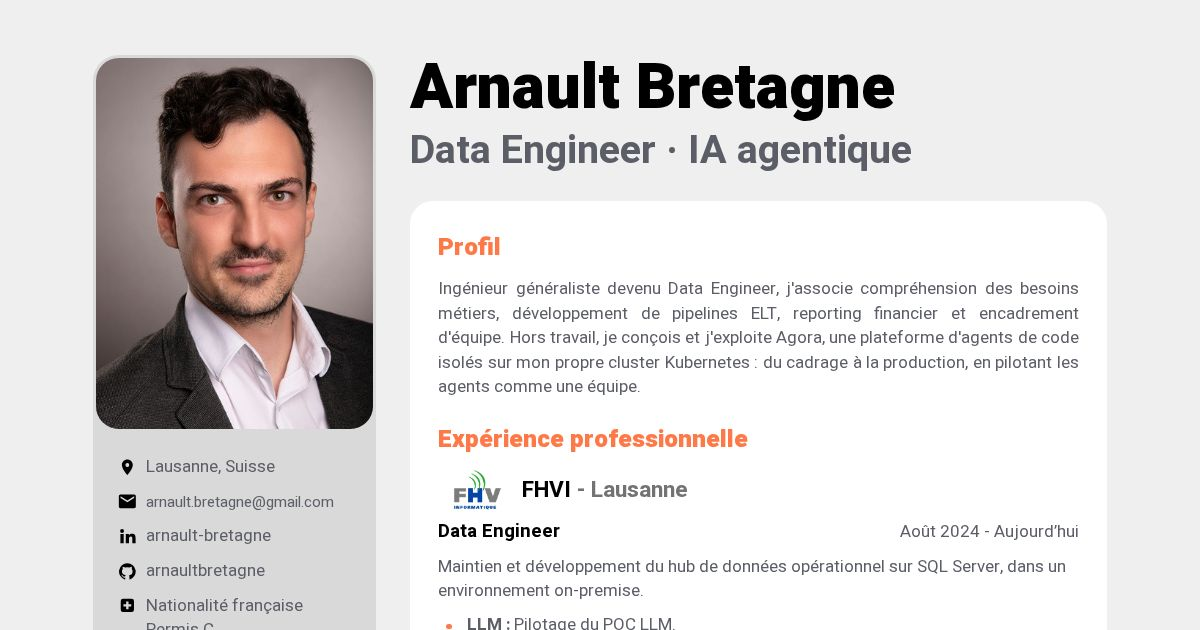
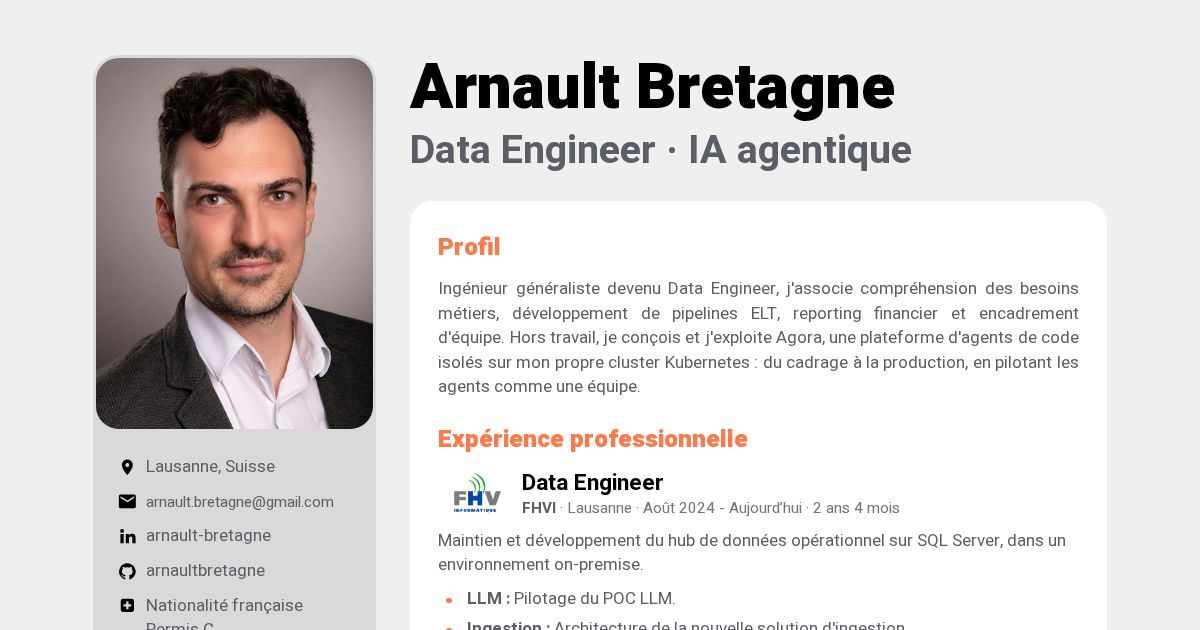
feat(cv): the compact entry layout, chosen; Capgemini ends in July 2024
Each entry's header is now the role (or the project) beside the logo, then
one grey line with the employer, the place, the dates and the length. The
other three layouts, the review bar and layout.js are gone.

Capgemini ran from November 2021 to July 2024; the PDF's 2025 was a typo.

Changed region(s): [[0.37, 0.754, 0.8942, 1.0]]

diff --git a/apps/cv/workload/site/fr.html b/apps/cv/workload/site/fr.html
@@ -21,11 +21,9 @@
 <link rel="icon" href="favicon.svg" type="image/svg+xml">
 <link rel="preload" href="heebo.woff2" as="font" type="font/woff2" crossorigin>
 <link rel="stylesheet" href="style.css">
-<script src="layout.js"></script>
 <script src="app.js" defer></script>
 </head>
 <body>
-<div class="review" hidden><span>Mise en page</span><div class="pill switch layouts" role="group" aria-label="Mise en page"><button type="button" data-layout="a">Actuel</button><button type="button" data-layout="b">Poste d'abord</button><button type="button" data-layout="c">Compact</button><button type="button" data-layout="d">Frise</button></div></div>
 <div class="page">
 
   <aside class="side">
@@ -127,11 +125,7 @@
       <h2>Expérience professionnelle</h2>
 
       <article class="entry">
-        <div class="when"><b>Août 2024</b><span>Aujourd’hui</span></div>
-        <div class="eh eh-a"><div class="org"><img class="logo" src="fhvi.png" width="175" height="136" alt=""><h3>FHVI <span class="place">- Lausanne</span></h3></div><div class="role"><h4>Data Engineer</h4><span class="dates">Août 2024 - Aujourd’hui</span></div></div>
-        <div class="eh eh-b"><img class="logo" src="fhvi.png" width="175" height="136" alt=""><h3>Data Engineer <span class="o">- FHVI</span></h3><span class="dates">Août 2024 - Aujourd’hui</span><span class="pl">Lausanne</span></div>
-        <div class="eh eh-c"><img class="logo" src="fhvi.png" width="175" height="136" alt=""><h3>Data Engineer</h3><p class="meta"><b>FHVI</b> · Lausanne · Août 2024 - Aujourd’hui<span class="dur" data-from="2024-08" data-to=""></span></p></div>
-        <div class="eh eh-d"><img class="logo" src="fhvi.png" width="175" height="136" alt=""><h3>Data Engineer <span class="o">- FHVI</span></h3><span class="pl">Lausanne</span></div>
+        <div class="eh"><img class="logo" src="fhvi.png" width="175" height="136" alt=""><h3>Data Engineer</h3><p class="meta"><b>FHVI</b> · Lausanne · Août 2024 - Aujourd’hui<span class="dur" data-from="2024-08" data-to=""></span></p></div>
         <p>Maintien et développement du hub de données opérationnel sur SQL Server, dans un environnement on-premise.</p>
         <ul class="points">
           <li><b>LLM :</b> Pilotage du POC LLM.</li>
@@ -141,11 +135,7 @@
         </ul>
       </article>
       <article class="entry">
-        <div class="when"><b>Nov. 2021</b><span>Juil. 2025</span></div>
-        <div class="eh eh-a"><div class="org"><img class="logo logo-capgemini" src="capgemini.png" width="126" height="119" alt=""><h3>Capgemini <span class="place">- Genève</span></h3></div><div class="role"><h4>Data Engineer</h4><span class="dates">Nov. 2021 - Juil. 2025</span></div></div>
-        <div class="eh eh-b"><img class="logo logo-capgemini" src="capgemini.png" width="126" height="119" alt=""><h3>Data Engineer <span class="o">- Capgemini</span></h3><span class="dates">Nov. 2021 - Juil. 2025</span><span class="pl">Genève</span></div>
-        <div class="eh eh-c"><img class="logo logo-capgemini" src="capgemini.png" width="126" height="119" alt=""><h3>Data Engineer</h3><p class="meta"><b>Capgemini</b> · Genève · Nov. 2021 - Juil. 2025<span class="dur" data-from="2021-11" data-to="2025-07"></span></p></div>
-        <div class="eh eh-d"><img class="logo logo-capgemini" src="capgemini.png" width="126" height="119" alt=""><h3>Data Engineer <span class="o">- Capgemini</span></h3><span class="pl">Genève</span></div>
+        <div class="eh"><img class="logo logo-capgemini" src="capgemini.png" width="126" height="119" alt=""><h3>Data Engineer</h3><p class="meta"><b>Capgemini</b> · Genève · Nov. 2021 - Juil. 2024<span class="dur" data-from="2021-11" data-to="2024-07"></span></p></div>
         <p class="sub">Consultant / Senior Consultant</p>
         <p>Reporting et planification financière SAP pour un leader européen des semi-conducteurs.</p>
         <ul class="points">
@@ -156,11 +146,7 @@
         </ul>
       </article>
       <article class="entry">
-        <div class="when"><b>Fév. 2016</b><span>Déc. 2020</span></div>
-        <div class="eh eh-a"><div class="org"><img class="logo" src="losinger.png" width="164" height="86" alt=""><h3>Losinger Marazzi <span class="place">- Lausanne</span></h3></div><div class="role"><h4>Acheteur</h4><span class="dates">Fév. 2016 - Déc. 2020</span></div></div>
-        <div class="eh eh-b"><img class="logo" src="losinger.png" width="164" height="86" alt=""><h3>Acheteur <span class="o">- Losinger Marazzi</span></h3><span class="dates">Fév. 2016 - Déc. 2020</span><span class="pl">Lausanne</span></div>
-        <div class="eh eh-c"><img class="logo" src="losinger.png" width="164" height="86" alt=""><h3>Acheteur</h3><p class="meta"><b>Losinger Marazzi</b> · Lausanne · Fév. 2016 - Déc. 2020<span class="dur" data-from="2016-02" data-to="2020-12"></span></p></div>
-        <div class="eh eh-d"><img class="logo" src="losinger.png" width="164" height="86" alt=""><h3>Acheteur <span class="o">- Losinger Marazzi</span></h3><span class="pl">Lausanne</span></div>
+        <div class="eh"><img class="logo" src="losinger.png" width="164" height="86" alt=""><h3>Acheteur</h3><p class="meta"><b>Losinger Marazzi</b> · Lausanne · Fév. 2016 - Déc. 2020<span class="dur" data-from="2016-02" data-to="2020-12"></span></p></div>
         <p>Achats CVSE, cuisines et revêtements de sol ; innovation.</p>
       </article>
     </section>
@@ -169,11 +155,7 @@
       <h2>Projets personnels</h2>
 
       <article class="entry">
-        <div class="when"><b>Juil. 2026</b><span>Aujourd’hui</span></div>
-        <div class="eh eh-a"><div class="org"><img class="logo logo-agora" src="agora.svg" width="72" height="72" alt=""><h3>Agora <span class="place">- Plateforme d'agents</span></h3><a class="repo" href="https://github.com/arnaultbretagne/agora"><svg viewBox="0 0 24 24" aria-hidden="true"><path d="M12 .3a12 12 0 0 0-3.8 23.4c.6.1.8-.3.8-.6v-2c-3.3.7-4-1.6-4-1.6-.6-1.4-1.4-1.8-1.4-1.8-1-.7.1-.7.1-.7 1.2.1 1.8 1.2 1.8 1.2 1 1.8 2.8 1.3 3.5 1 0-.8.4-1.3.7-1.6-2.7-.3-5.5-1.3-5.5-6 0-1.2.5-2.3 1.3-3.1-.2-.4-.6-1.6 0-3.2 0 0 1-.3 3.4 1.2a11.5 11.5 0 0 1 6 0c2.3-1.5 3.3-1.2 3.3-1.2.6 1.6.2 2.8.1 3.2.8.8 1.3 1.9 1.3 3.2 0 4.6-2.8 5.6-5.5 5.9.5.4.9 1 .9 2.2v3.3c0 .3.1.7.8.6A12 12 0 0 0 12 .3"/></svg> agora<span class="live" data-pushed="arnaultbretagne/agora"></span></a></div><div class="role"><h4>Conception, développement, exploitation</h4><span class="dates">Juil. 2026 - Aujourd’hui</span></div></div>
-        <div class="eh eh-b"><img class="logo logo-agora" src="agora.svg" width="72" height="72" alt=""><h3>Agora <span class="o">- Plateforme d'agents</span></h3><span class="dates">Juil. 2026 - Aujourd’hui</span><span class="pl">Conception, développement, exploitation</span><a class="repo" href="https://github.com/arnaultbretagne/agora"><svg viewBox="0 0 24 24" aria-hidden="true"><path d="M12 .3a12 12 0 0 0-3.8 23.4c.6.1.8-.3.8-.6v-2c-3.3.7-4-1.6-4-1.6-.6-1.4-1.4-1.8-1.4-1.8-1-.7.1-.7.1-.7 1.2.1 1.8 1.2 1.8 1.2 1 1.8 2.8 1.3 3.5 1 0-.8.4-1.3.7-1.6-2.7-.3-5.5-1.3-5.5-6 0-1.2.5-2.3 1.3-3.1-.2-.4-.6-1.6 0-3.2 0 0 1-.3 3.4 1.2a11.5 11.5 0 0 1 6 0c2.3-1.5 3.3-1.2 3.3-1.2.6 1.6.2 2.8.1 3.2.8.8 1.3 1.9 1.3 3.2 0 4.6-2.8 5.6-5.5 5.9.5.4.9 1 .9 2.2v3.3c0 .3.1.7.8.6A12 12 0 0 0 12 .3"/></svg> agora<span class="live" data-pushed="arnaultbretagne/agora"></span></a></div>
-        <div class="eh eh-c"><img class="logo logo-agora" src="agora.svg" width="72" height="72" alt=""><h3>Agora <span class="o">- Plateforme d'agents</span></h3><a class="repo" href="https://github.com/arnaultbretagne/agora"><svg viewBox="0 0 24 24" aria-hidden="true"><path d="M12 .3a12 12 0 0 0-3.8 23.4c.6.1.8-.3.8-.6v-2c-3.3.7-4-1.6-4-1.6-.6-1.4-1.4-1.8-1.4-1.8-1-.7.1-.7.1-.7 1.2.1 1.8 1.2 1.8 1.2 1 1.8 2.8 1.3 3.5 1 0-.8.4-1.3.7-1.6-2.7-.3-5.5-1.3-5.5-6 0-1.2.5-2.3 1.3-3.1-.2-.4-.6-1.6 0-3.2 0 0 1-.3 3.4 1.2a11.5 11.5 0 0 1 6 0c2.3-1.5 3.3-1.2 3.3-1.2.6 1.6.2 2.8.1 3.2.8.8 1.3 1.9 1.3 3.2 0 4.6-2.8 5.6-5.5 5.9.5.4.9 1 .9 2.2v3.3c0 .3.1.7.8.6A12 12 0 0 0 12 .3"/></svg> agora<span class="live" data-pushed="arnaultbretagne/agora"></span></a><p class="meta">Conception, développement, exploitation · Juil. 2026 - Aujourd’hui<span class="dur" data-from="2026-07" data-to=""></span></p></div>
-        <div class="eh eh-d"><img class="logo logo-agora" src="agora.svg" width="72" height="72" alt=""><h3>Agora <span class="o">- Plateforme d'agents</span></h3><span class="pl">Conception, développement, exploitation</span><a class="repo" href="https://github.com/arnaultbretagne/agora"><svg viewBox="0 0 24 24" aria-hidden="true"><path d="M12 .3a12 12 0 0 0-3.8 23.4c.6.1.8-.3.8-.6v-2c-3.3.7-4-1.6-4-1.6-.6-1.4-1.4-1.8-1.4-1.8-1-.7.1-.7.1-.7 1.2.1 1.8 1.2 1.8 1.2 1 1.8 2.8 1.3 3.5 1 0-.8.4-1.3.7-1.6-2.7-.3-5.5-1.3-5.5-6 0-1.2.5-2.3 1.3-3.1-.2-.4-.6-1.6 0-3.2 0 0 1-.3 3.4 1.2a11.5 11.5 0 0 1 6 0c2.3-1.5 3.3-1.2 3.3-1.2.6 1.6.2 2.8.1 3.2.8.8 1.3 1.9 1.3 3.2 0 4.6-2.8 5.6-5.5 5.9.5.4.9 1 .9 2.2v3.3c0 .3.1.7.8.6A12 12 0 0 0 12 .3"/></svg> agora<span class="live" data-pushed="arnaultbretagne/agora"></span></a></div>
+        <div class="eh"><img class="logo logo-agora" src="agora.svg" width="72" height="72" alt=""><h3>Agora <span class="o">- Plateforme d'agents</span></h3><a class="repo" href="https://github.com/arnaultbretagne/agora"><svg viewBox="0 0 24 24" aria-hidden="true"><path d="M12 .3a12 12 0 0 0-3.8 23.4c.6.1.8-.3.8-.6v-2c-3.3.7-4-1.6-4-1.6-.6-1.4-1.4-1.8-1.4-1.8-1-.7.1-.7.1-.7 1.2.1 1.8 1.2 1.8 1.2 1 1.8 2.8 1.3 3.5 1 0-.8.4-1.3.7-1.6-2.7-.3-5.5-1.3-5.5-6 0-1.2.5-2.3 1.3-3.1-.2-.4-.6-1.6 0-3.2 0 0 1-.3 3.4 1.2a11.5 11.5 0 0 1 6 0c2.3-1.5 3.3-1.2 3.3-1.2.6 1.6.2 2.8.1 3.2.8.8 1.3 1.9 1.3 3.2 0 4.6-2.8 5.6-5.5 5.9.5.4.9 1 .9 2.2v3.3c0 .3.1.7.8.6A12 12 0 0 0 12 .3"/></svg> agora<span class="live" data-pushed="arnaultbretagne/agora"></span></a><p class="meta">Conception, développement, exploitation · Juil. 2026 - Aujourd’hui<span class="dur" data-from="2026-07" data-to=""></span></p></div>
         <p>Une interface web pour travailler avec des agents de code qui tournent isolés, retrouver tout leur travail après une interruption et les faire travailler en équipe.</p>
         <ul class="points">
           <li><b><a class="proof" href="https://github.com/arnaultbretagne/agora/blob/main/docs/architecture/executions.md">Exécutions</a> :</b> Claude Code, Codex et opencode via ACP, chaque agent dans sa microVM Kata, pools chauds.</li>
@@ -185,11 +167,7 @@
         </ul>
       </article>
       <article class="entry">
-        <div class="when"><b>Avr. 2026</b><span>Aujourd’hui</span></div>
-        <div class="eh eh-a"><div class="org"><img class="logo logo-kubernetes" src="kubernetes.svg" width="777" height="754" alt=""><h3>bretagne.dev <span class="place">- Kubernetes</span></h3><a class="repo" href="https://github.com/arnaultbretagne/infra-k8s"><svg viewBox="0 0 24 24" aria-hidden="true"><path d="M12 .3a12 12 0 0 0-3.8 23.4c.6.1.8-.3.8-.6v-2c-3.3.7-4-1.6-4-1.6-.6-1.4-1.4-1.8-1.4-1.8-1-.7.1-.7.1-.7 1.2.1 1.8 1.2 1.8 1.2 1 1.8 2.8 1.3 3.5 1 0-.8.4-1.3.7-1.6-2.7-.3-5.5-1.3-5.5-6 0-1.2.5-2.3 1.3-3.1-.2-.4-.6-1.6 0-3.2 0 0 1-.3 3.4 1.2a11.5 11.5 0 0 1 6 0c2.3-1.5 3.3-1.2 3.3-1.2.6 1.6.2 2.8.1 3.2.8.8 1.3 1.9 1.3 3.2 0 4.6-2.8 5.6-5.5 5.9.5.4.9 1 .9 2.2v3.3c0 .3.1.7.8.6A12 12 0 0 0 12 .3"/></svg> infra-k8s<span class="live" data-pushed="arnaultbretagne/infra-k8s"></span></a></div><div class="role"><h4>Plateforme GitOps auto-hébergée</h4><span class="dates">Avr. 2026 - Aujourd’hui</span></div></div>
-        <div class="eh eh-b"><img class="logo logo-kubernetes" src="kubernetes.svg" width="777" height="754" alt=""><h3>bretagne.dev <span class="o">- Kubernetes</span></h3><span class="dates">Avr. 2026 - Aujourd’hui</span><span class="pl">Plateforme GitOps auto-hébergée</span><a class="repo" href="https://github.com/arnaultbretagne/infra-k8s"><svg viewBox="0 0 24 24" aria-hidden="true"><path d="M12 .3a12 12 0 0 0-3.8 23.4c.6.1.8-.3.8-.6v-2c-3.3.7-4-1.6-4-1.6-.6-1.4-1.4-1.8-1.4-1.8-1-.7.1-.7.1-.7 1.2.1 1.8 1.2 1.8 1.2 1 1.8 2.8 1.3 3.5 1 0-.8.4-1.3.7-1.6-2.7-.3-5.5-1.3-5.5-6 0-1.2.5-2.3 1.3-3.1-.2-.4-.6-1.6 0-3.2 0 0 1-.3 3.4 1.2a11.5 11.5 0 0 1 6 0c2.3-1.5 3.3-1.2 3.3-1.2.6 1.6.2 2.8.1 3.2.8.8 1.3 1.9 1.3 3.2 0 4.6-2.8 5.6-5.5 5.9.5.4.9 1 .9 2.2v3.3c0 .3.1.7.8.6A12 12 0 0 0 12 .3"/></svg> infra-k8s<span class="live" data-pushed="arnaultbretagne/infra-k8s"></span></a></div>
-        <div class="eh eh-c"><img class="logo logo-kubernetes" src="kubernetes.svg" width="777" height="754" alt=""><h3>bretagne.dev <span class="o">- Kubernetes</span></h3><a class="repo" href="https://github.com/arnaultbretagne/infra-k8s"><svg viewBox="0 0 24 24" aria-hidden="true"><path d="M12 .3a12 12 0 0 0-3.8 23.4c.6.1.8-.3.8-.6v-2c-3.3.7-4-1.6-4-1.6-.6-1.4-1.4-1.8-1.4-1.8-1-.7.1-.7.1-.7 1.2.1 1.8 1.2 1.8 1.2 1 1.8 2.8 1.3 3.5 1 0-.8.4-1.3.7-1.6-2.7-.3-5.5-1.3-5.5-6 0-1.2.5-2.3 1.3-3.1-.2-.4-.6-1.6 0-3.2 0 0 1-.3 3.4 1.2a11.5 11.5 0 0 1 6 0c2.3-1.5 3.3-1.2 3.3-1.2.6 1.6.2 2.8.1 3.2.8.8 1.3 1.9 1.3 3.2 0 4.6-2.8 5.6-5.5 5.9.5.4.9 1 .9 2.2v3.3c0 .3.1.7.8.6A12 12 0 0 0 12 .3"/></svg> infra-k8s<span class="live" data-pushed="arnaultbretagne/infra-k8s"></span></a><p class="meta">Plateforme GitOps auto-hébergée · Avr. 2026 - Aujourd’hui<span class="dur" data-from="2026-04" data-to=""></span></p></div>
-        <div class="eh eh-d"><img class="logo logo-kubernetes" src="kubernetes.svg" width="777" height="754" alt=""><h3>bretagne.dev <span class="o">- Kubernetes</span></h3><span class="pl">Plateforme GitOps auto-hébergée</span><a class="repo" href="https://github.com/arnaultbretagne/infra-k8s"><svg viewBox="0 0 24 24" aria-hidden="true"><path d="M12 .3a12 12 0 0 0-3.8 23.4c.6.1.8-.3.8-.6v-2c-3.3.7-4-1.6-4-1.6-.6-1.4-1.4-1.8-1.4-1.8-1-.7.1-.7.1-.7 1.2.1 1.8 1.2 1.8 1.2 1 1.8 2.8 1.3 3.5 1 0-.8.4-1.3.7-1.6-2.7-.3-5.5-1.3-5.5-6 0-1.2.5-2.3 1.3-3.1-.2-.4-.6-1.6 0-3.2 0 0 1-.3 3.4 1.2a11.5 11.5 0 0 1 6 0c2.3-1.5 3.3-1.2 3.3-1.2.6 1.6.2 2.8.1 3.2.8.8 1.3 1.9 1.3 3.2 0 4.6-2.8 5.6-5.5 5.9.5.4.9 1 .9 2.2v3.3c0 .3.1.7.8.6A12 12 0 0 0 12 .3"/></svg> infra-k8s<span class="live" data-pushed="arnaultbretagne/infra-k8s"></span></a></div>
+        <div class="eh"><img class="logo logo-kubernetes" src="kubernetes.svg" width="777" height="754" alt=""><h3>bretagne.dev <span class="o">- Kubernetes</span></h3><a class="repo" href="https://github.com/arnaultbretagne/infra-k8s"><svg viewBox="0 0 24 24" aria-hidden="true"><path d="M12 .3a12 12 0 0 0-3.8 23.4c.6.1.8-.3.8-.6v-2c-3.3.7-4-1.6-4-1.6-.6-1.4-1.4-1.8-1.4-1.8-1-.7.1-.7.1-.7 1.2.1 1.8 1.2 1.8 1.2 1 1.8 2.8 1.3 3.5 1 0-.8.4-1.3.7-1.6-2.7-.3-5.5-1.3-5.5-6 0-1.2.5-2.3 1.3-3.1-.2-.4-.6-1.6 0-3.2 0 0 1-.3 3.4 1.2a11.5 11.5 0 0 1 6 0c2.3-1.5 3.3-1.2 3.3-1.2.6 1.6.2 2.8.1 3.2.8.8 1.3 1.9 1.3 3.2 0 4.6-2.8 5.6-5.5 5.9.5.4.9 1 .9 2.2v3.3c0 .3.1.7.8.6A12 12 0 0 0 12 .3"/></svg> infra-k8s<span class="live" data-pushed="arnaultbretagne/infra-k8s"></span></a><p class="meta">Plateforme GitOps auto-hébergée · Avr. 2026 - Aujourd’hui<span class="dur" data-from="2026-04" data-to=""></span></p></div>
         <p>Le cluster qui fait tourner Agora et mes services sur un mini-PC, à la maison : chaque changement passe par une PR, Flux l'applique.</p>
         <ul class="points">
           <li><b><a class="proof" href="https://github.com/arnaultbretagne/infra-k8s/blob/main/docs/adr/0026-gitops-root-of-trust.md">GitOps</a> :</b> Flux, SOPS, Renovate ; branche main protégée : les agents proposent, je merge.</li>

diff --git a/apps/cv/workload/site/index.html b/apps/cv/workload/site/index.html
@@ -21,11 +21,9 @@
 <link rel="icon" href="favicon.svg" type="image/svg+xml">
 <link rel="preload" href="heebo.woff2" as="font" type="font/woff2" crossorigin>
 <link rel="stylesheet" href="style.css">
-<script src="layout.js"></script>
 <script src="app.js" defer></script>
 </head>
 <body>
-<div class="review" hidden><span>Layout</span><div class="pill switch layouts" role="group" aria-label="Layout"><button type="button" data-layout="a">Current</button><button type="button" data-layout="b">Role first</button><button type="button" data-layout="c">Compact</button><button type="button" data-layout="d">Timeline</button></div></div>
 <div class="page">
 
   <aside class="side">
@@ -127,11 +125,7 @@
       <h2>Professional experience</h2>
 
       <article class="entry">
-        <div class="when"><b>Aug. 2024</b><span>Present</span></div>
-        <div class="eh eh-a"><div class="org"><img class="logo" src="fhvi.png" width="175" height="136" alt=""><h3>FHVI <span class="place">- Lausanne</span></h3></div><div class="role"><h4>Data Engineer</h4><span class="dates">Aug. 2024 - Present</span></div></div>
-        <div class="eh eh-b"><img class="logo" src="fhvi.png" width="175" height="136" alt=""><h3>Data Engineer <span class="o">- FHVI</span></h3><span class="dates">Aug. 2024 - Present</span><span class="pl">Lausanne</span></div>
-        <div class="eh eh-c"><img class="logo" src="fhvi.png" width="175" height="136" alt=""><h3>Data Engineer</h3><p class="meta"><b>FHVI</b> · Lausanne · Aug. 2024 - Present<span class="dur" data-from="2024-08" data-to=""></span></p></div>
-        <div class="eh eh-d"><img class="logo" src="fhvi.png" width="175" height="136" alt=""><h3>Data Engineer <span class="o">- FHVI</span></h3><span class="pl">Lausanne</span></div>
+        <div class="eh"><img class="logo" src="fhvi.png" width="175" height="136" alt=""><h3>Data Engineer</h3><p class="meta"><b>FHVI</b> · Lausanne · Aug. 2024 - Present<span class="dur" data-from="2024-08" data-to=""></span></p></div>
         <p>Maintenance and development of the operational data hub on SQL Server, in an on-premise environment.</p>
         <ul class="points">
           <li><b>LLM:</b> Led the LLM proof of concept.</li>
@@ -141,11 +135,7 @@
         </ul>
       </article>
       <article class="entry">
-        <div class="when"><b>Nov. 2021</b><span>Jul. 2025</span></div>
-        <div class="eh eh-a"><div class="org"><img class="logo logo-capgemini" src="capgemini.png" width="126" height="119" alt=""><h3>Capgemini <span class="place">- Geneva</span></h3></div><div class="role"><h4>Data Engineer</h4><span class="dates">Nov. 2021 - Jul. 2025</span></div></div>
-        <div class="eh eh-b"><img class="logo logo-capgemini" src="capgemini.png" width="126" height="119" alt=""><h3>Data Engineer <span class="o">- Capgemini</span></h3><span class="dates">Nov. 2021 - Jul. 2025</span><span class="pl">Geneva</span></div>
-        <div class="eh eh-c"><img class="logo logo-capgemini" src="capgemini.png" width="126" height="119" alt=""><h3>Data Engineer</h3><p class="meta"><b>Capgemini</b> · Geneva · Nov. 2021 - Jul. 2025<span class="dur" data-from="2021-11" data-to="2025-07"></span></p></div>
-        <div class="eh eh-d"><img class="logo logo-capgemini" src="capgemini.png" width="126" height="119" alt=""><h3>Data Engineer <span class="o">- Capgemini</span></h3><span class="pl">Geneva</span></div>
+        <div class="eh"><img class="logo logo-capgemini" src="capgemini.png" width="126" height="119" alt=""><h3>Data Engineer</h3><p class="meta"><b>Capgemini</b> · Geneva · Nov. 2021 - Jul. 2024<span class="dur" data-from="2021-11" data-to="2024-07"></span></p></div>
         <p class="sub">Consultant / Senior Consultant</p>
         <p>SAP financial reporting and planning for a European semiconductor leader.</p>
         <ul class="points">
@@ -156,11 +146,7 @@
         </ul>
       </article>
       <article class="entry">
-        <div class="when"><b>Feb. 2016</b><span>Dec. 2020</span></div>
-        <div class="eh eh-a"><div class="org"><img class="logo" src="losinger.png" width="164" height="86" alt=""><h3>Losinger Marazzi <span class="place">- Lausanne</span></h3></div><div class="role"><h4>Buyer</h4><span class="dates">Feb. 2016 - Dec. 2020</span></div></div>
-        <div class="eh eh-b"><img class="logo" src="losinger.png" width="164" height="86" alt=""><h3>Buyer <span class="o">- Losinger Marazzi</span></h3><span class="dates">Feb. 2016 - Dec. 2020</span><span class="pl">Lausanne</span></div>
-        <div class="eh eh-c"><img class="logo" src="losinger.png" width="164" height="86" alt=""><h3>Buyer</h3><p class="meta"><b>Losinger Marazzi</b> · Lausanne · Feb. 2016 - Dec. 2020<span class="dur" data-from="2016-02" data-to="2020-12"></span></p></div>
-        <div class="eh eh-d"><img class="logo" src="losinger.png" width="164" height="86" alt=""><h3>Buyer <span class="o">- Losinger Marazzi</span></h3><span class="pl">Lausanne</span></div>
+        <div class="eh"><img class="logo" src="losinger.png" width="164" height="86" alt=""><h3>Buyer</h3><p class="meta"><b>Losinger Marazzi</b> · Lausanne · Feb. 2016 - Dec. 2020<span class="dur" data-from="2016-02" data-to="2020-12"></span></p></div>
         <p>Procurement of building services (HVAC, plumbing, electrical), kitchens and floor coverings; innovation.</p>
       </article>
     </section>
@@ -169,11 +155,7 @@
       <h2>Personal projects</h2>
 
       <article class="entry">
-        <div class="when"><b>Jul. 2026</b><span>Present</span></div>
-        <div class="eh eh-a"><div class="org"><img class="logo logo-agora" src="agora.svg" width="72" height="72" alt=""><h3>Agora <span class="place">- Agent platform</span></h3><a class="repo" href="https://github.com/arnaultbretagne/agora"><svg viewBox="0 0 24 24" aria-hidden="true"><path d="M12 .3a12 12 0 0 0-3.8 23.4c.6.1.8-.3.8-.6v-2c-3.3.7-4-1.6-4-1.6-.6-1.4-1.4-1.8-1.4-1.8-1-.7.1-.7.1-.7 1.2.1 1.8 1.2 1.8 1.2 1 1.8 2.8 1.3 3.5 1 0-.8.4-1.3.7-1.6-2.7-.3-5.5-1.3-5.5-6 0-1.2.5-2.3 1.3-3.1-.2-.4-.6-1.6 0-3.2 0 0 1-.3 3.4 1.2a11.5 11.5 0 0 1 6 0c2.3-1.5 3.3-1.2 3.3-1.2.6 1.6.2 2.8.1 3.2.8.8 1.3 1.9 1.3 3.2 0 4.6-2.8 5.6-5.5 5.9.5.4.9 1 .9 2.2v3.3c0 .3.1.7.8.6A12 12 0 0 0 12 .3"/></svg> agora<span class="live" data-pushed="arnaultbretagne/agora"></span></a></div><div class="role"><h4>Design, development, operations</h4><span class="dates">Jul. 2026 - Present</span></div></div>
-        <div class="eh eh-b"><img class="logo logo-agora" src="agora.svg" width="72" height="72" alt=""><h3>Agora <span class="o">- Agent platform</span></h3><span class="dates">Jul. 2026 - Present</span><span class="pl">Design, development, operations</span><a class="repo" href="https://github.com/arnaultbretagne/agora"><svg viewBox="0 0 24 24" aria-hidden="true"><path d="M12 .3a12 12 0 0 0-3.8 23.4c.6.1.8-.3.8-.6v-2c-3.3.7-4-1.6-4-1.6-.6-1.4-1.4-1.8-1.4-1.8-1-.7.1-.7.1-.7 1.2.1 1.8 1.2 1.8 1.2 1 1.8 2.8 1.3 3.5 1 0-.8.4-1.3.7-1.6-2.7-.3-5.5-1.3-5.5-6 0-1.2.5-2.3 1.3-3.1-.2-.4-.6-1.6 0-3.2 0 0 1-.3 3.4 1.2a11.5 11.5 0 0 1 6 0c2.3-1.5 3.3-1.2 3.3-1.2.6 1.6.2 2.8.1 3.2.8.8 1.3 1.9 1.3 3.2 0 4.6-2.8 5.6-5.5 5.9.5.4.9 1 .9 2.2v3.3c0 .3.1.7.8.6A12 12 0 0 0 12 .3"/></svg> agora<span class="live" data-pushed="arnaultbretagne/agora"></span></a></div>
-        <div class="eh eh-c"><img class="logo logo-agora" src="agora.svg" width="72" height="72" alt=""><h3>Agora <span class="o">- Agent platform</span></h3><a class="repo" href="https://github.com/arnaultbretagne/agora"><svg viewBox="0 0 24 24" aria-hidden="true"><path d="M12 .3a12 12 0 0 0-3.8 23.4c.6.1.8-.3.8-.6v-2c-3.3.7-4-1.6-4-1.6-.6-1.4-1.4-1.8-1.4-1.8-1-.7.1-.7.1-.7 1.2.1 1.8 1.2 1.8 1.2 1 1.8 2.8 1.3 3.5 1 0-.8.4-1.3.7-1.6-2.7-.3-5.5-1.3-5.5-6 0-1.2.5-2.3 1.3-3.1-.2-.4-.6-1.6 0-3.2 0 0 1-.3 3.4 1.2a11.5 11.5 0 0 1 6 0c2.3-1.5 3.3-1.2 3.3-1.2.6 1.6.2 2.8.1 3.2.8.8 1.3 1.9 1.3 3.2 0 4.6-2.8 5.6-5.5 5.9.5.4.9 1 .9 2.2v3.3c0 .3.1.7.8.6A12 12 0 0 0 12 .3"/></svg> agora<span class="live" data-pushed="arnaultbretagne/agora"></span></a><p class="meta">Design, development, operations · Jul. 2026 - Present<span class="dur" data-from="2026-07" data-to=""></span></p></div>
-        <div class="eh eh-d"><img class="logo logo-agora" src="agora.svg" width="72" height="72" alt=""><h3>Agora <span class="o">- Agent platform</span></h3><span class="pl">Design, development, operations</span><a class="repo" href="https://github.com/arnaultbretagne/agora"><svg viewBox="0 0 24 24" aria-hidden="true"><path d="M12 .3a12 12 0 0 0-3.8 23.4c.6.1.8-.3.8-.6v-2c-3.3.7-4-1.6-4-1.6-.6-1.4-1.4-1.8-1.4-1.8-1-.7.1-.7.1-.7 1.2.1 1.8 1.2 1.8 1.2 1 1.8 2.8 1.3 3.5 1 0-.8.4-1.3.7-1.6-2.7-.3-5.5-1.3-5.5-6 0-1.2.5-2.3 1.3-3.1-.2-.4-.6-1.6 0-3.2 0 0 1-.3 3.4 1.2a11.5 11.5 0 0 1 6 0c2.3-1.5 3.3-1.2 3.3-1.2.6 1.6.2 2.8.1 3.2.8.8 1.3 1.9 1.3 3.2 0 4.6-2.8 5.6-5.5 5.9.5.4.9 1 .9 2.2v3.3c0 .3.1.7.8.6A12 12 0 0 0 12 .3"/></svg> agora<span class="live" data-pushed="arnaultbretagne/agora"></span></a></div>
+        <div class="eh"><img class="logo logo-agora" src="agora.svg" width="72" height="72" alt=""><h3>Agora <span class="o">- Agent platform</span></h3><a class="repo" href="https://github.com/arnaultbretagne/agora"><svg viewBox="0 0 24 24" aria-hidden="true"><path d="M12 .3a12 12 0 0 0-3.8 23.4c.6.1.8-.3.8-.6v-2c-3.3.7-4-1.6-4-1.6-.6-1.4-1.4-1.8-1.4-1.8-1-.7.1-.7.1-.7 1.2.1 1.8 1.2 1.8 1.2 1 1.8 2.8 1.3 3.5 1 0-.8.4-1.3.7-1.6-2.7-.3-5.5-1.3-5.5-6 0-1.2.5-2.3 1.3-3.1-.2-.4-.6-1.6 0-3.2 0 0 1-.3 3.4 1.2a11.5 11.5 0 0 1 6 0c2.3-1.5 3.3-1.2 3.3-1.2.6 1.6.2 2.8.1 3.2.8.8 1.3 1.9 1.3 3.2 0 4.6-2.8 5.6-5.5 5.9.5.4.9 1 .9 2.2v3.3c0 .3.1.7.8.6A12 12 0 0 0 12 .3"/></svg> agora<span class="live" data-pushed="arnaultbretagne/agora"></span></a><p class="meta">Design, development, operations · Jul. 2026 - Present<span class="dur" data-from="2026-07" data-to=""></span></p></div>
         <p>A web interface to work with coding agents that run in isolation, find all their work again after an interruption, and have them work as a team.</p>
         <ul class="points">
           <li><b><a class="proof" href="https://github.com/arnaultbretagne/agora/blob/main/docs/architecture/executions.md">Executions</a>:</b> Claude Code, Codex and opencode over ACP, each agent in its own Kata microVM, warm pools.</li>
@@ -185,11 +167,7 @@
         </ul>
       </article>
       <article class="entry">
-        <div class="when"><b>Apr. 2026</b><span>Present</span></div>
-        <div class="eh eh-a"><div class="org"><img class="logo logo-kubernetes" src="kubernetes.svg" width="777" height="754" alt=""><h3>bretagne.dev <span class="place">- Kubernetes</span></h3><a class="repo" href="https://github.com/arnaultbretagne/infra-k8s"><svg viewBox="0 0 24 24" aria-hidden="true"><path d="M12 .3a12 12 0 0 0-3.8 23.4c.6.1.8-.3.8-.6v-2c-3.3.7-4-1.6-4-1.6-.6-1.4-1.4-1.8-1.4-1.8-1-.7.1-.7.1-.7 1.2.1 1.8 1.2 1.8 1.2 1 1.8 2.8 1.3 3.5 1 0-.8.4-1.3.7-1.6-2.7-.3-5.5-1.3-5.5-6 0-1.2.5-2.3 1.3-3.1-.2-.4-.6-1.6 0-3.2 0 0 1-.3 3.4 1.2a11.5 11.5 0 0 1 6 0c2.3-1.5 3.3-1.2 3.3-1.2.6 1.6.2 2.8.1 3.2.8.8 1.3 1.9 1.3 3.2 0 4.6-2.8 5.6-5.5 5.9.5.4.9 1 .9 2.2v3.3c0 .3.1.7.8.6A12 12 0 0 0 12 .3"/></svg> infra-k8s<span class="live" data-pushed="arnaultbretagne/infra-k8s"></span></a></div><div class="role"><h4>Self-hosted GitOps platform</h4><span class="dates">Apr. 2026 - Present</span></div></div>
-        <div class="eh eh-b"><img class="logo logo-kubernetes" src="kubernetes.svg" width="777" height="754" alt=""><h3>bretagne.dev <span class="o">- Kubernetes</span></h3><span class="dates">Apr. 2026 - Present</span><span class="pl">Self-hosted GitOps platform</span><a class="repo" href="https://github.com/arnaultbretagne/infra-k8s"><svg viewBox="0 0 24 24" aria-hidden="true"><path d="M12 .3a12 12 0 0 0-3.8 23.4c.6.1.8-.3.8-.6v-2c-3.3.7-4-1.6-4-1.6-.6-1.4-1.4-1.8-1.4-1.8-1-.7.1-.7.1-.7 1.2.1 1.8 1.2 1.8 1.2 1 1.8 2.8 1.3 3.5 1 0-.8.4-1.3.7-1.6-2.7-.3-5.5-1.3-5.5-6 0-1.2.5-2.3 1.3-3.1-.2-.4-.6-1.6 0-3.2 0 0 1-.3 3.4 1.2a11.5 11.5 0 0 1 6 0c2.3-1.5 3.3-1.2 3.3-1.2.6 1.6.2 2.8.1 3.2.8.8 1.3 1.9 1.3 3.2 0 4.6-2.8 5.6-5.5 5.9.5.4.9 1 .9 2.2v3.3c0 .3.1.7.8.6A12 12 0 0 0 12 .3"/></svg> infra-k8s<span class="live" data-pushed="arnaultbretagne/infra-k8s"></span></a></div>
-        <div class="eh eh-c"><img class="logo logo-kubernetes" src="kubernetes.svg" width="777" height="754" alt=""><h3>bretagne.dev <span class="o">- Kubernetes</span></h3><a class="repo" href="https://github.com/arnaultbretagne/infra-k8s"><svg viewBox="0 0 24 24" aria-hidden="true"><path d="M12 .3a12 12 0 0 0-3.8 23.4c.6.1.8-.3.8-.6v-2c-3.3.7-4-1.6-4-1.6-.6-1.4-1.4-1.8-1.4-1.8-1-.7.1-.7.1-.7 1.2.1 1.8 1.2 1.8 1.2 1 1.8 2.8 1.3 3.5 1 0-.8.4-1.3.7-1.6-2.7-.3-5.5-1.3-5.5-6 0-1.2.5-2.3 1.3-3.1-.2-.4-.6-1.6 0-3.2 0 0 1-.3 3.4 1.2a11.5 11.5 0 0 1 6 0c2.3-1.5 3.3-1.2 3.3-1.2.6 1.6.2 2.8.1 3.2.8.8 1.3 1.9 1.3 3.2 0 4.6-2.8 5.6-5.5 5.9.5.4.9 1 .9 2.2v3.3c0 .3.1.7.8.6A12 12 0 0 0 12 .3"/></svg> infra-k8s<span class="live" data-pushed="arnaultbretagne/infra-k8s"></span></a><p class="meta">Self-hosted GitOps platform · Apr. 2026 - Present<span class="dur" data-from="2026-04" data-to=""></span></p></div>
-        <div class="eh eh-d"><img class="logo logo-kubernetes" src="kubernetes.svg" width="777" height="754" alt=""><h3>bretagne.dev <span class="o">- Kubernetes</span></h3><span class="pl">Self-hosted GitOps platform</span><a class="repo" href="https://github.com/arnaultbretagne/infra-k8s"><svg viewBox="0 0 24 24" aria-hidden="true"><path d="M12 .3a12 12 0 0 0-3.8 23.4c.6.1.8-.3.8-.6v-2c-3.3.7-4-1.6-4-1.6-.6-1.4-1.4-1.8-1.4-1.8-1-.7.1-.7.1-.7 1.2.1 1.8 1.2 1.8 1.2 1 1.8 2.8 1.3 3.5 1 0-.8.4-1.3.7-1.6-2.7-.3-5.5-1.3-5.5-6 0-1.2.5-2.3 1.3-3.1-.2-.4-.6-1.6 0-3.2 0 0 1-.3 3.4 1.2a11.5 11.5 0 0 1 6 0c2.3-1.5 3.3-1.2 3.3-1.2.6 1.6.2 2.8.1 3.2.8.8 1.3 1.9 1.3 3.2 0 4.6-2.8 5.6-5.5 5.9.5.4.9 1 .9 2.2v3.3c0 .3.1.7.8.6A12 12 0 0 0 12 .3"/></svg> infra-k8s<span class="live" data-pushed="arnaultbretagne/infra-k8s"></span></a></div>
+        <div class="eh"><img class="logo logo-kubernetes" src="kubernetes.svg" width="777" height="754" alt=""><h3>bretagne.dev <span class="o">- Kubernetes</span></h3><a class="repo" href="https://github.com/arnaultbretagne/infra-k8s"><svg viewBox="0 0 24 24" aria-hidden="true"><path d="M12 .3a12 12 0 0 0-3.8 23.4c.6.1.8-.3.8-.6v-2c-3.3.7-4-1.6-4-1.6-.6-1.4-1.4-1.8-1.4-1.8-1-.7.1-.7.1-.7 1.2.1 1.8 1.2 1.8 1.2 1 1.8 2.8 1.3 3.5 1 0-.8.4-1.3.7-1.6-2.7-.3-5.5-1.3-5.5-6 0-1.2.5-2.3 1.3-3.1-.2-.4-.6-1.6 0-3.2 0 0 1-.3 3.4 1.2a11.5 11.5 0 0 1 6 0c2.3-1.5 3.3-1.2 3.3-1.2.6 1.6.2 2.8.1 3.2.8.8 1.3 1.9 1.3 3.2 0 4.6-2.8 5.6-5.5 5.9.5.4.9 1 .9 2.2v3.3c0 .3.1.7.8.6A12 12 0 0 0 12 .3"/></svg> infra-k8s<span class="live" data-pushed="arnaultbretagne/infra-k8s"></span></a><p class="meta">Self-hosted GitOps platform · Apr. 2026 - Present<span class="dur" data-from="2026-04" data-to=""></span></p></div>
         <p>The cluster that runs Agora and my services on a mini PC at home: every change goes through a pull request, and Flux applies it.</p>
         <ul class="points">
           <li><b><a class="proof" href="https://github.com/arnaultbretagne/infra-k8s/blob/main/docs/adr/0026-gitops-root-of-trust.md">GitOps</a>:</b> Flux, SOPS, Renovate; protected main branch: agents propose, I merge.</li>

diff --git a/apps/cv/workload/site/style.css b/apps/cv/workload/site/style.css
@@ -195,15 +195,22 @@ h1, h2, h3, h4, p, dl, dd { margin: 0; }
 }
 .lead { text-align: justify; }
 
-/* An entry: an employer or a project. */
+/* An entry: an employer or a project. Its header puts the logo beside the role (or the project),
+   then one grey line with where, when and how long. */
 .entry + .entry { margin-top: 0.88rem; }
-.entry .org {
-  display: flex;
+.eh {
+  display: grid;
+  grid-template-columns: 3.25rem minmax(0, 1fr) auto;
+  grid-template-areas: "logo h repo" "logo meta meta";
+  column-gap: 0.97rem;
   align-items: center;
-  gap: 0.97rem;
-  height: 2.6rem;
-  margin: 0 0 0.32rem 0.6667rem;
+  margin-left: 0.6667rem;
 }
+.eh .logo { grid-area: logo; }
+.eh h3 { grid-area: h; }
+.eh .repo { grid-area: repo; }
+.entry .eh .meta { grid-area: meta; margin: 0; font-size: 0.9rem; line-height: 1.35; color: var(--muted); }
+.eh .meta b { color: var(--text); font-weight: 700; }
 .entry .logo {
   width: 3.25rem;
   height: 2.6rem;
@@ -219,18 +226,10 @@ h1, h2, h3, h4, p, dl, dd { margin: 0; }
   line-height: 1.3;
   white-space: nowrap;
 }
-.entry h3 .place { color: var(--muted); }
-.role {
-  display: flex;
-  justify-content: space-between;
-  align-items: baseline;
-  gap: 1rem;
-}
-.role h4 { color: var(--ink); font-weight: 700; font-size: 1.1111rem; line-height: 1.4; }
+.entry h3 .o { color: var(--muted); }
 .dates { white-space: nowrap; }
-.sub { font-weight: 700; margin-top: 0.09rem; }
 .entry p { margin-top: 0.6rem; }
-.entry p.sub { margin-top: 0.09rem; }
+.entry p.sub { font-weight: 700; margin-top: 0.5rem; }
 
 .points { margin: 0.61rem 0 0 1.6667rem; }
 .points li { position: relative; line-height: 1.3333; }
@@ -316,10 +315,9 @@ h1, h2, h3, h4, p, dl, dd { margin: 0; }
   .tools { position: static; justify-content: flex-end; margin-bottom: 0.5rem; }
   .print { display: none; }
   .card { margin-top: 0; padding: 1.1rem 1.1rem 1.5rem; }
-  .entry .org { margin-left: 0; height: auto; min-height: 2.6rem; flex-wrap: wrap; row-gap: 0.4rem; }
-  .entry .repo { margin-left: 0; }
+  .eh { margin-left: 0; grid-template-columns: 3.25rem minmax(0, 1fr); grid-template-areas: "logo h" "logo meta" "repo repo"; row-gap: 0.1rem; }
+  .eh .repo { justify-self: start; margin-top: 0.3rem; }
   .entry h3 { font-size: 1.2rem; white-space: normal; }
-  .role { flex-wrap: wrap; row-gap: 0; }
   .lead { text-align: left; }
 }
 
@@ -344,90 +342,5 @@ h1, h2, h3, h4, p, dl, dd { margin: 0; }
   .tools, .foot { display: none; }
   a.proof { text-decoration: none; }
   .certs li, .points li { break-inside: avoid; }
-  .card h2, .entry .org, .role, .entry > p { break-after: avoid; }
+  .card h2, .eh, .entry > p { break-after: avoid; }
 }
-
-/* ---------- Entry layouts, switchable while one is chosen (review bar) ---------- */
-
-.review { display: flex; justify-content: center; align-items: center; flex-wrap: wrap; gap: 0.6rem; padding: 0.9rem 1rem 0; font-size: 0.9rem; color: var(--muted); }
-.review[hidden] { display: none; }
-.layouts button { font: inherit; font-weight: 700; color: inherit; background: none; border: 0; padding: 0 0.55rem; cursor: pointer; }
-.layouts button[aria-pressed="true"], .layouts button:hover { color: var(--accent); }
-
-.eh, .when { display: none; }
-html:not([data-layout]) .eh-a, html[data-layout="a"] .eh-a { display: block; }
-html[data-layout="b"] .eh-b, html[data-layout="c"] .eh-c, html[data-layout="d"] .eh-d { display: grid; }
-html[data-layout="d"] .when { display: flex; }
-
-/* 2 · 3 · 4: the logo beside a two-line header. */
-.eh-b, .eh-c, .eh-d {
-  grid-template-columns: 3.25rem minmax(0, 1fr) auto;
-  column-gap: 0.97rem;
-  align-items: center;
-  margin-left: 0.6667rem;
-}
-.eh-b { grid-template-areas: "logo h right1" "logo pl right2"; }
-.eh-c { grid-template-areas: "logo h right1" "logo meta meta"; }
-.eh-d { grid-template-areas: "logo h h" "logo pl right2"; }
-.eh .logo { grid-area: logo; }
-.eh-b h3, .eh-c h3, .eh-d h3 { grid-area: h; }
-.eh h3 .o { color: var(--muted); }
-.eh-b .dates { grid-area: right1; }
-.eh-b .repo { grid-area: right2; justify-self: end; margin-top: 0.2rem; }
-.eh-c .repo { grid-area: right1; }
-.eh-d .repo { grid-area: right2; justify-self: end; margin-top: 0.2rem; }
-.eh .pl { grid-area: pl; font-size: 0.9rem; line-height: 1.35; color: var(--muted); }
-.entry .eh-c .meta { grid-area: meta; margin: 0; font-size: 0.9rem; line-height: 1.35; color: var(--muted); }
-.eh-c .meta b { color: var(--text); font-weight: 700; }
-html[data-layout]:not([data-layout="a"]) .entry p.sub { margin-top: 0.5rem; }
-
-/* 4 · Timeline: the dates in a left column, on a line that joins the entries of a section. */
-html[data-layout="d"] .entry {
-  display: grid;
-  grid-template-columns: 6.4rem minmax(0, 1fr);
-  column-gap: 1.6rem;
-  position: relative;
-}
-html[data-layout="d"] .entry > * { grid-column: 2; }
-html[data-layout="d"] .entry > .when { grid-column: 1; grid-row: 1 / span 9; }
-html[data-layout="d"] .eh-d { margin-left: 0; }
-.when { flex-direction: column; align-items: flex-end; text-align: right; font-size: 0.9rem; line-height: 1.35; color: var(--muted); padding-top: 0.25rem; }
-.when b { color: var(--text); font-weight: 700; }
-html[data-layout="d"] .entry::before {
-  content: "";
-  position: absolute;
-  left: calc(6.4rem + 0.8rem - 1px);
-  top: 1rem;
-  bottom: -0.88rem;
-  width: 2px;
-  background: #e2e2e2;
-}
-html[data-layout="d"] .entry:last-child::before { bottom: 0; }
-html[data-layout="d"] .entry::after {
-  content: "";
-  position: absolute;
-  left: calc(6.4rem + 0.8rem - 5px);
-  top: 0.55rem;
-  width: 10px;
-  height: 10px;
-  border-radius: 50%;
-  background: var(--accent);
-  box-shadow: 0 0 0 3px var(--card);
-}
-
-@media screen and (max-width: 860px) {
-  .eh-b, .eh-c, .eh-d { margin-left: 0; grid-template-columns: 3.25rem minmax(0, 1fr); row-gap: 0.1rem; }
-  .eh-b { grid-template-areas: "logo h" "logo pl" "right1 right1" "right2 right2"; }
-  .eh-c { grid-template-areas: "logo h" "logo meta" "right1 right1"; }
-  .eh-d { grid-template-areas: "logo h" "logo pl" "right2 right2"; }
-  .eh .repo { justify-self: start; margin-top: 0.3rem; }
-  html[data-layout="d"] .entry { display: block; }
-  html[data-layout="d"] .entry::before, html[data-layout="d"] .entry::after { display: none; }
-  .when { flex-direction: row; gap: 0.3rem; align-items: baseline; padding: 0 0 0.35rem; }
-  .when span::before { content: "- "; }
-}
-
-@media print {
-  .review { display: none !important; }
-}
-.layouts button + button { border-left: 1.5px solid #c9c9c9; }

diff --git a/apps/cv/workload/site/app.js b/apps/cv/workload/site/app.js
@@ -1,5 +1,5 @@
-// Two touches the PDF cannot have: a print button, and each repository's last activity, asked of
-// GitHub's public API. The page is whole without this script; a failure leaves the chip as it is.
+// What the PDF cannot have: a print button, each repository's last activity asked of GitHub's public
+// API, and the length of each job. The page is whole without this script; a failure leaves it as is.
 
 const print = document.querySelector(".print");
 print.hidden = false;
@@ -56,20 +56,4 @@ for (const el of document.querySelectorAll(".dur[data-from]")) {
     ? [y && `${y} an${y > 1 ? "s" : ""}`, m && `${m} mois`]
     : [y && `${y} yr${y > 1 ? "s" : ""}`, m && `${m} mo${m > 1 ? "s" : ""}`];
   el.textContent = ` · ${parts.filter(Boolean).join(" ")}`;
-}
-
-// The review bar (temporary): switches the entries' layout and remembers it across both pages.
-const review = document.querySelector(".review");
-if (review) {
-  review.hidden = false;
-  const current = () => document.documentElement.dataset.layout || "a";
-  const mark = () => review.querySelectorAll("button").forEach((b) => b.setAttribute("aria-pressed", String(b.dataset.layout === current())));
-  review.addEventListener("click", (event) => {
-    const button = event.target.closest("button[data-layout]");
-    if (!button) return;
-    document.documentElement.dataset.layout = button.dataset.layout;
-    try { localStorage.setItem("cv-layout", button.dataset.layout); } catch {}
-    mark();
-  });
-  mark();
 }
